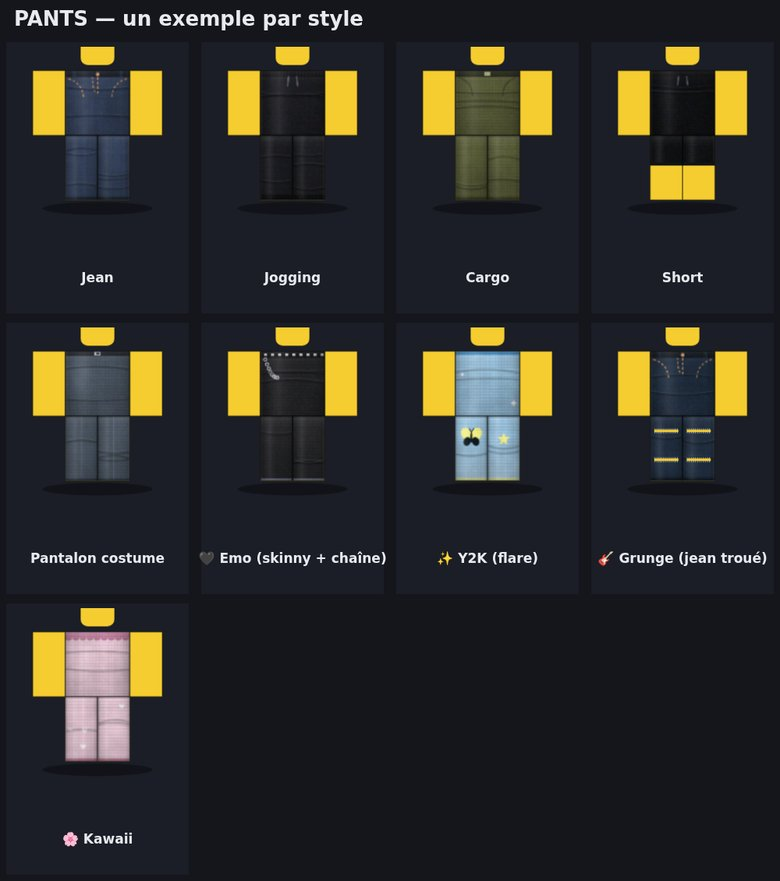
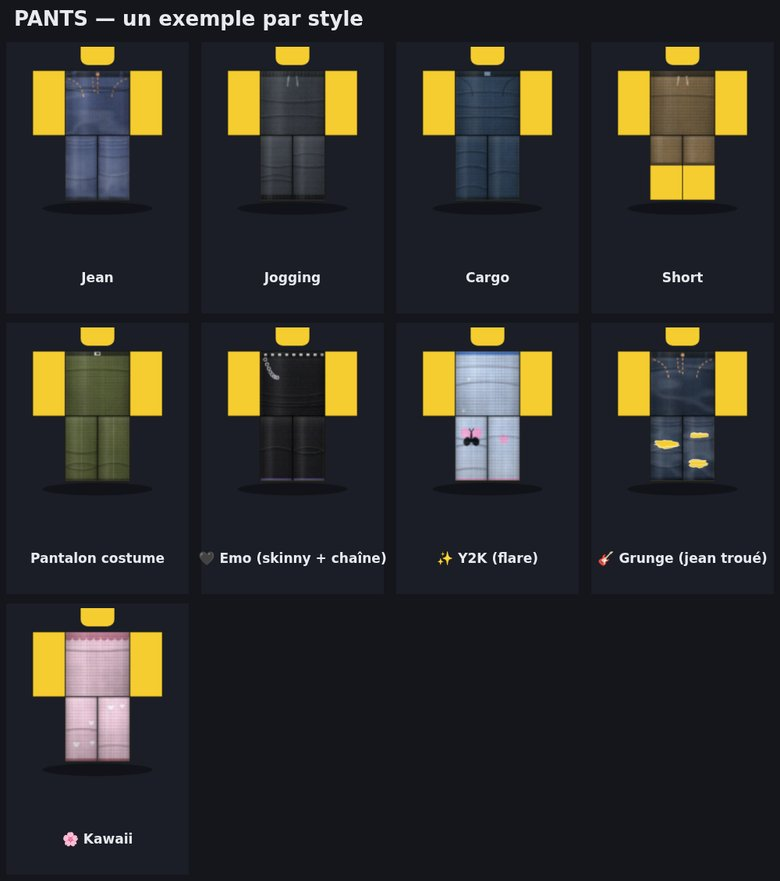
Ensembles assortis, délavage denim, accrocs réalistes, col en U
- Bouton 🧥+👖 : génère shirt + pants coordonnés (même palette, styles
  appariés hoodie→jogging, emo→emo, chemise→costume...) et l'aperçu
  avatar superpose les deux comme en jeu (peau < pants < shirt)
- Délavage denim discret : marbrures acid-wash, usure des genoux,
  moustaches de cuisse (soft-light), appliqué à tous les tissus sergé
- Accrocs patatoïdes sur le grunge : trou irrégulier, fils de trame
  tendus, bord effiloché, ombre d'épaisseur (la peau apparaît)
- Col en U sur le t-shirt col rond (convention catalogue)

Claude-Session: https://claude.ai/code/session_01VnuwCrQ5Pbuh4sEe4MDvx5

diff --git a/index.html b/index.html
@@ -138,6 +138,7 @@
       </div>
 
       <button class="btn" id="genBtn">✨ Générer</button>
+      <button class="btn ghost" id="setBtn" style="margin-top:8px">🧥+👖 Générer un ensemble assorti</button>
     </div>
 
     <!-- ----- MODE IMAGE ----- -->
@@ -1103,6 +1104,68 @@ function printWorn(ctx,W,H,drawFn,rng,wear,mode){
   ctx.drawImage(off,0,0);
   ctx.restore();
 }
+/* Délavage denim : marbrures acid-wash + usure genoux/cuisses (soft-light) */
+function denimWash(ctx,rng,garmentKind){
+  const off=document.createElement('canvas'); off.width=TW; off.height=TH;
+  const o=off.getContext('2d');
+  const F=fbmTile(rng,[[64,.6],[16,.4]]);
+  const im=o.createImageData(256,256);
+  for(let i=0;i<65536;i++){
+    const r=1-Math.abs(2*F[i]-1);                 // ridged noise = marbrures
+    const v=Math.min(140,Math.max(0,r-0.78)*420); // discret : hauts reliefs seulement
+    im.data[i*4]=im.data[i*4+1]=im.data[i*4+2]=255;
+    im.data[i*4+3]=v*0.7;
+  }
+  const tile=document.createElement('canvas'); tile.width=tile.height=256;
+  tile.getContext('2d').putImageData(im,0,0);
+  for(const z of ZONE_LIST) o.drawImage(tile,z.x,z.y,z.w*1.5,z.h); // étiré = plis de lavage
+  if(garmentKind==='pants') for(const limb of LIMBS){
+    const r=limb.front;
+    const g=o.createRadialGradient(r.x+r.w/2,r.y+r.h*0.5,4,r.x+r.w/2,r.y+r.h*0.5,r.w*0.8);
+    g.addColorStop(0,'rgba(255,255,255,0.38)'); g.addColorStop(1,'rgba(255,255,255,0)');
+    o.fillStyle=g; o.fillRect(r.x,r.y,r.w,r.h);
+    o.strokeStyle='rgba(255,255,255,0.22)'; o.lineWidth=3; o.lineCap='round';
+    for(let i=0;i<3;i++){ // whiskers en haut de cuisse
+      const y=r.y+8+i*7;
+      o.beginPath(); o.moveTo(r.x+6,y);
+      o.quadraticCurveTo(r.x+r.w/2,y+4,r.x+r.w-6,y);
+      o.stroke();
+    }
+  }
+  ctx.save();
+  clipToZones(ctx);
+  ctx.globalCompositeOperation='soft-light';
+  ctx.drawImage(off,0,0);
+  ctx.globalCompositeOperation='screen'; ctx.globalAlpha=0.05;
+  ctx.drawImage(off,0,0);
+  ctx.restore(); ctx.globalAlpha=1; ctx.globalCompositeOperation='source-over';
+}
+/* Accroc réaliste : trou patatoïde + fils de trame tendus + bord effiloché */
+function ripHole(ctx,cx,cy,rw,rh,rng){
+  const path=new Path2D();
+  for(let a=0;a<6.28;a+=0.35){
+    const k=1+(rng()-0.5)*0.5;
+    const px=cx+Math.cos(a)*rw*k, py=cy+Math.sin(a)*rh*k;
+    a===0? path.moveTo(px,py) : path.lineTo(px,py);
+  }
+  path.closePath();
+  ctx.save(); ctx.globalCompositeOperation='destination-out'; ctx.fill(path); ctx.restore();
+  ctx.save(); ctx.clip(path);
+  for(let y=cy-rh; y<cy+rh; y+=2.5+rng()*2.5){    // fils blancs affaissés
+    if(rng()<0.72){
+      ctx.strokeStyle=`rgba(240,236,228,${0.5+rng()*0.4})`;
+      ctx.lineWidth=0.9+rng()*0.8;
+      ctx.beginPath(); ctx.moveTo(cx-rw*1.2,y);
+      ctx.quadraticCurveTo(cx,y+1.5+rng()*2.5,cx+rw*1.2,y);
+      ctx.stroke();
+    }
+  }
+  ctx.fillStyle='rgba(0,0,0,0.16)';               // épaisseur du tissu en haut du trou
+  ctx.fillRect(cx-rw*1.3,cy-rh*1.3,rw*2.6,rh*0.35);
+  ctx.restore();
+  ctx.strokeStyle='rgba(255,255,255,0.5)'; ctx.lineWidth=1.5;
+  ctx.stroke(path);                                // bord effiloché blanchi
+}
 /* Rebond demi-résolution : adoucit les bords vectoriels (aspect scan) */
 function softenCanvas(cv){
   const w=cv.width,h=cv.height;
@@ -1154,6 +1217,12 @@ const SHIRT_STYLES = {
   tee: {label:'T-shirt (col rond)', fabric:'solid',
     paint(ctx,p,rng){
       for(const f of SIDE_FACES) band(ctx,TORSO[f],p.accent,8,false);
+      // creux du col en U (convention catalogue)
+      const fr=TORSO.front, cx=fr.x+fr.w/2;
+      ctx.fillStyle=p.dark;
+      ctx.beginPath(); ctx.ellipse(cx,fr.y+8,17,10,0,0,Math.PI); ctx.fill();
+      ctx.strokeStyle='rgba(255,255,255,0.18)'; ctx.lineWidth=1.5;
+      ctx.beginPath(); ctx.ellipse(cx,fr.y+8,17,10,0,0.15,Math.PI-0.15); ctx.stroke();
       for(const limb of LIMBS) for(const f of SIDE_FACES) band(ctx,limb[f],p.accent,7,true);
       for(const f of SIDE_FACES) band(ctx,TORSO[f],p.dark,6,true,0.7);
     }},
@@ -1602,18 +1671,12 @@ const PANTS_STYLES = {
       this._ripY=[380+rng()*30, 420+rng()*30]; // mémorise pour after()
     },
     after(ctx,p,rng){
-      // déchirures : fines bandes transparentes, la peau apparaît
+      // accrocs patatoïdes : la peau apparaît entre les fils tendus
       for(const limb of LIMBS){
         const r=limb.front;
-        for(const ry of this._ripY||[390,430]){
-          const y=Math.min(ry, r.y+r.h-18);
-          ctx.clearRect(r.x+8, y, r.w-16, 5);
-          ctx.strokeStyle='rgba(255,255,255,0.75)'; ctx.lineWidth=1.2;
-          for(let x=r.x+9;x<r.x+r.w-9;x+=4){
-            ctx.beginPath(); ctx.moveTo(x,y-2); ctx.lineTo(x+1,y); ctx.stroke();
-            ctx.beginPath(); ctx.moveTo(x+1,y+5); ctx.lineTo(x,y+7); ctx.stroke();
-          }
-        }
+        const n=1+Math.floor(rng()*2);
+        for(let i=0;i<n;i++)
+          ripHole(ctx, r.x+r.w/2+(rng()-0.5)*10, r.y+28+rng()*72, 14+rng()*8, 5+rng()*4, rng);
       }
     },
     noise:2600, noiseAlpha:0.05},
@@ -1818,7 +1881,7 @@ function generateTemplate(kind, opts){
   const rng=mulberry32(opts.seed);
   SKIP_FIT=false;
   const [styleKey, style]=pickStyle(STYLE_SETS[kind], opts.style, rng);
-  const p = style.palette ? style.palette(rng,opts.forcedColor) : makePalette(rng,opts.forcedColor);
+  const p = opts.palette || (style.palette ? style.palette(rng,opts.forcedColor) : makePalette(rng,opts.forcedColor));
   const patKey = opts.pattern!=='auto' ? opts.pattern : (style.fabric||'solid');
 
   ctx.save();
@@ -1830,15 +1893,24 @@ function generateTemplate(kind, opts){
   wrinkles(ctx,rng);
   ctx.restore();
   // trame textile + grain photo sur 100 % des pixels peints
-  applyFabric(ctx,TW,TH,rng, style._cloth||style.cloth||'weave', style.clothStrength);
+  const clothKind=style._cloth||style.cloth||'weave';
+  applyFabric(ctx,TW,TH,rng, clothKind, style.clothStrength);
+  if(clothKind==='denim') denimWash(ctx,rng,kind);
   // adoucissement demi-résolution (tue le rendu vectoriel) puis alpha binaire
   softenCanvas(cv);
   hardenAlpha(ctx,TW,TH);
   // découpes (déchirures, coupes) : après le soften pour garder des bords nets
   if(style.after) style.after(ctx,p,rng,opts);
   if(!style.skipFit && !SKIP_FIT) applyFit(kind, opts.fit||'mixte', ctx, p);
-  return {canvas:cv, styleKey};
+  return {canvas:cv, styleKey, palette:p};
 }
+
+/* Correspondance shirt -> pants pour les ensembles assortis */
+const MATCH_PANTS={
+  tee:'jean', hoodie:'jogging', varsity:'jean', jersey:'jogging',
+  chemise:'costume', pull:'jean', emo:'emo', y2k:'y2k',
+  kawaii:'kawaii', grunge:'grunge', street:'cargo',
+};
 
 function generateTShirt(opts){
   const S=512;
@@ -2061,7 +2133,7 @@ function generateFromImage(kind, img, placement, baseHex, logoScale, shadows){
 }
 
 /* ========================= APERÇU AVATAR ========================= */
-function drawAvatar(cvAvatar, kind, garment){
+function drawAvatar(cvAvatar, kind, garment, pair){
   const ctx=cvAvatar.getContext('2d');
   const W=cvAvatar.width, H=cvAvatar.height;
   ctx.clearRect(0,0,W,H);
@@ -2086,22 +2158,30 @@ function drawAvatar(cvAvatar, kind, garment){
   ctx.fillRect(cx-tw/2,topY+th,aw,ah);                    // jambe g
   ctx.fillRect(cx-tw/2+aw,topY+th,aw,ah);                 // jambe d
 
-  const put=(r,dx,dy,dw,dh)=>ctx.drawImage(garment, r.x,r.y,r.w,r.h, dx,dy,dw,dh);
+  // ensemble : shirt et/ou pants superposés comme en jeu (peau < pants < shirt)
+  const shirtCv = kind==='shirt'? garment : (pair && pair.kind==='shirt'? pair.canvas : null);
+  const pantsCv = kind==='pants'? garment : (pair && pair.kind==='pants'? pair.canvas : null);
+  const put=(src,r,dx,dy,dw,dh)=>ctx.drawImage(src, r.x,r.y,r.w,r.h, dx,dy,dw,dh);
 
-  if(kind==='pants'){
-    put(TORSO.front, cx-tw/2, topY, tw, th);
-    put(LIMB_L.front, cx-tw/2,    topY+th, aw, ah);
-    put(LIMB_R.front, cx-tw/2+aw, topY+th, aw, ah);
-  } else if(kind==='shirt'){
-    ctx.fillStyle=grey; // jambes : pantalon neutre
-    ctx.fillRect(cx-tw/2,topY+th,aw,ah); ctx.fillRect(cx-tw/2+aw,topY+th,aw,ah);
-    put(TORSO.front,  cx-tw/2, topY, tw, th);
-    put(LIMB_L.front, cx-tw/2-aw, topY, aw, ah);
-    put(LIMB_R.front, cx+tw/2,    topY, aw, ah);
-  } else {
+  if(kind==='tshirt'){
     ctx.fillStyle=grey;
     ctx.fillRect(cx-tw/2,topY+th,aw,ah); ctx.fillRect(cx-tw/2+aw,topY+th,aw,ah);
     ctx.drawImage(garment, cx-tw/2, topY, tw, th);
+  } else {
+    if(!pantsCv && shirtCv){ // pantalon neutre sous un shirt seul
+      ctx.fillStyle=grey;
+      ctx.fillRect(cx-tw/2,topY+th,aw,ah); ctx.fillRect(cx-tw/2+aw,topY+th,aw,ah);
+    }
+    if(pantsCv){
+      put(pantsCv, TORSO.front, cx-tw/2, topY, tw, th);
+      put(pantsCv, LIMB_L.front, cx-tw/2,    topY+th, aw, ah);
+      put(pantsCv, LIMB_R.front, cx-tw/2+aw, topY+th, aw, ah);
+    }
+    if(shirtCv){
+      put(shirtCv, TORSO.front,  cx-tw/2, topY, tw, th);
+      put(shirtCv, LIMB_L.front, cx-tw/2-aw, topY, aw, ah);
+      put(shirtCv, LIMB_R.front, cx+tw/2,    topY, aw, ah);
+    }
   }
   ctx.strokeStyle='rgba(0,0,0,0.35)'; ctx.lineWidth=1.5;
   ctx.strokeRect(cx-tw/2,topY,tw,th);
@@ -2163,6 +2243,7 @@ function refreshTypeUI(){
   $('typeHint').innerHTML=TYPE_HINTS[curType];
   $('chestTextField').style.display = curType==='tshirt' ? '' : 'none';
   $('fitField').style.display = curType==='tshirt' ? 'none' : '';
+  $('setBtn').style.display = curType==='tshirt' ? 'none' : '';
   $('mainCap').textContent = curType==='tshirt' ? 'Image T-Shirt 512×512' : 'Template 585×559';
   refreshStyleSel();
 }
@@ -2386,8 +2467,9 @@ function renderMain(){
       ctx.fillText(lbl[face], r.x+3, r.y+3);
     }
   }
-  drawAvatar($('avatarCanvas'), current.kind, current.canvas);
-  $('seedBadge').textContent = current.seed!=null ? `graine ${current.seed}` : 'image';
+  drawAvatar($('avatarCanvas'), current.kind, current.canvas, current.pair);
+  $('seedBadge').textContent = current.pair ? `ensemble · graine ${current.seed}` :
+    (current.seed!=null ? `graine ${current.seed}` : 'image');
 }
 $('guideChk').addEventListener('change',renderMain);
 
@@ -2437,6 +2519,23 @@ $('genBtn').addEventListener('click',()=>{
     addToGallery(item);
     if(i===0){ current=item; renderMain(); }
   }
+});
+
+/* ----- ensemble assorti (shirt + pants, même palette) ----- */
+$('setBtn').addEventListener('click',()=>{
+  const forced = $('randColor').checked ? null : $('baseColor').value;
+  const fit=$('fitSel').value;
+  const seed=Math.floor(Math.random()*1e9);
+  const shirtStyle = curType==='shirt' ? $('styleSel').value : 'random';
+  const gs=generateTemplate('shirt',{style:shirtStyle, pattern:$('patternSel').value, fit, seed, forcedColor:forced, text:''});
+  const pStyle=MATCH_PANTS[gs.styleKey]||'jean';
+  const gp=generateTemplate('pants',{style:pStyle, pattern:'auto', fit, seed:seed+7, palette:gs.palette});
+  const shirtItem={canvas:gs.canvas, kind:'shirt', seed, name:`shirt-${gs.styleKey}-ensemble-${seed}.png`};
+  const pantsItem={canvas:gp.canvas, kind:'pants', seed:seed+7, name:`pants-${gp.styleKey}-ensemble-${seed}.png`};
+  shirtItem.pair=pantsItem; pantsItem.pair=shirtItem;
+  addToGallery(pantsItem);
+  addToGallery(shirtItem);
+  current=shirtItem; renderMain();
 });
 
 /* ----- génération depuis image ----- */

diff --git a/README.md b/README.md
@@ -13,6 +13,17 @@ Ouvre simplement `index.html` dans ton navigateur (double-clic), c'est tout.
 
 ## ✨ Fonctionnalités
 
+### Rendu « tissu réel »
+Chaque vêtement passe par un moteur de rendu inspiré des best-sellers du catalogue :
+trame textile pixel par pixel (toile / maille / sergé denim + délavage), éclairage
+volumique par face, coutures, prints érodés façon sérigraphie usée, grain photo,
+palettes désaturées relevées dans le catalogue — plus d'aplats vectoriels.
+
+### Ensembles assortis 🧥+👖
+Un bouton génère le **shirt et le pants coordonnés** (même palette, styles appariés :
+hoodie→jogging, emo→emo skinny, chemise→costume…) et l'aperçu avatar porte les deux.
+C'est le format « matching set » qui marche le mieux sur le catalogue.
+
 ### Mode « Génération auto »
 Des **vrais styles de vêtements**, dont les tendances :
 - **Shirts** : t-shirt col rond, hoodie, veste varsity, maillot de sport, chemise, pull rayé,
